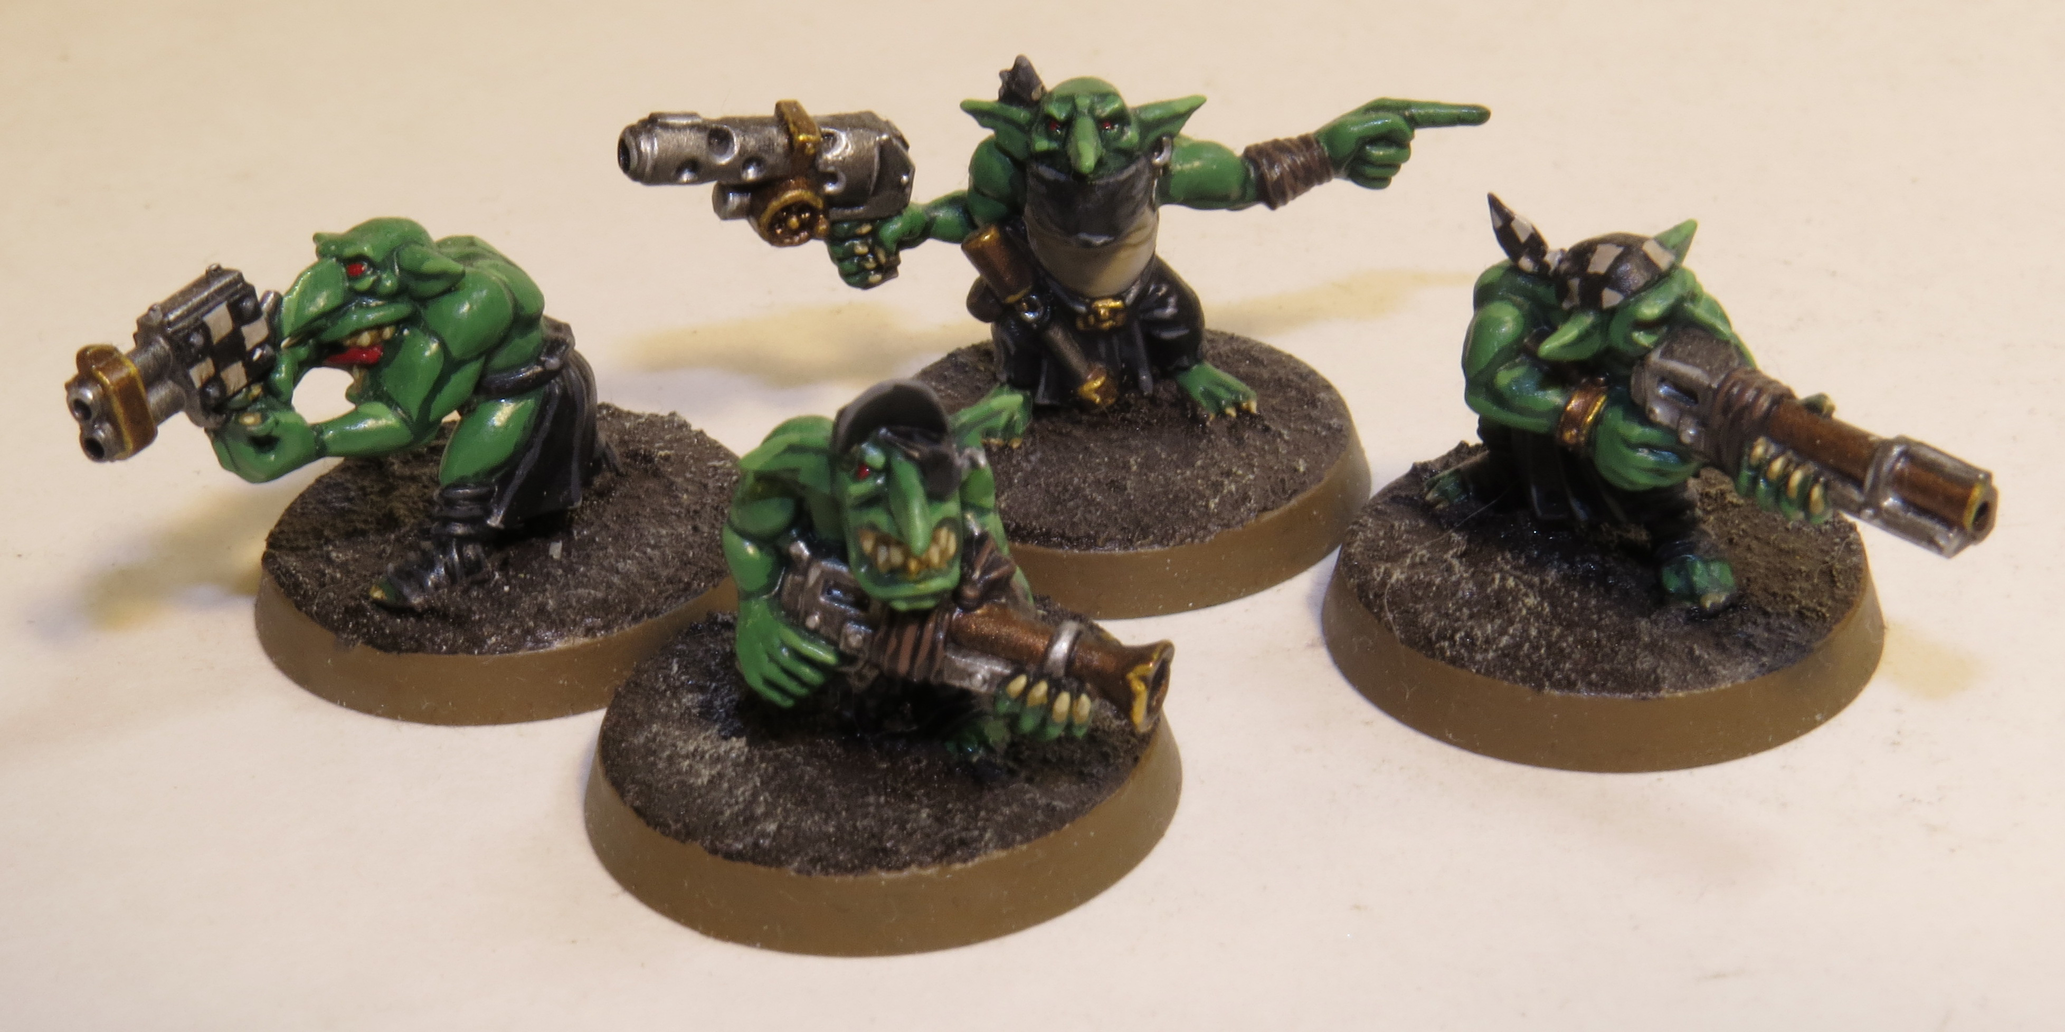
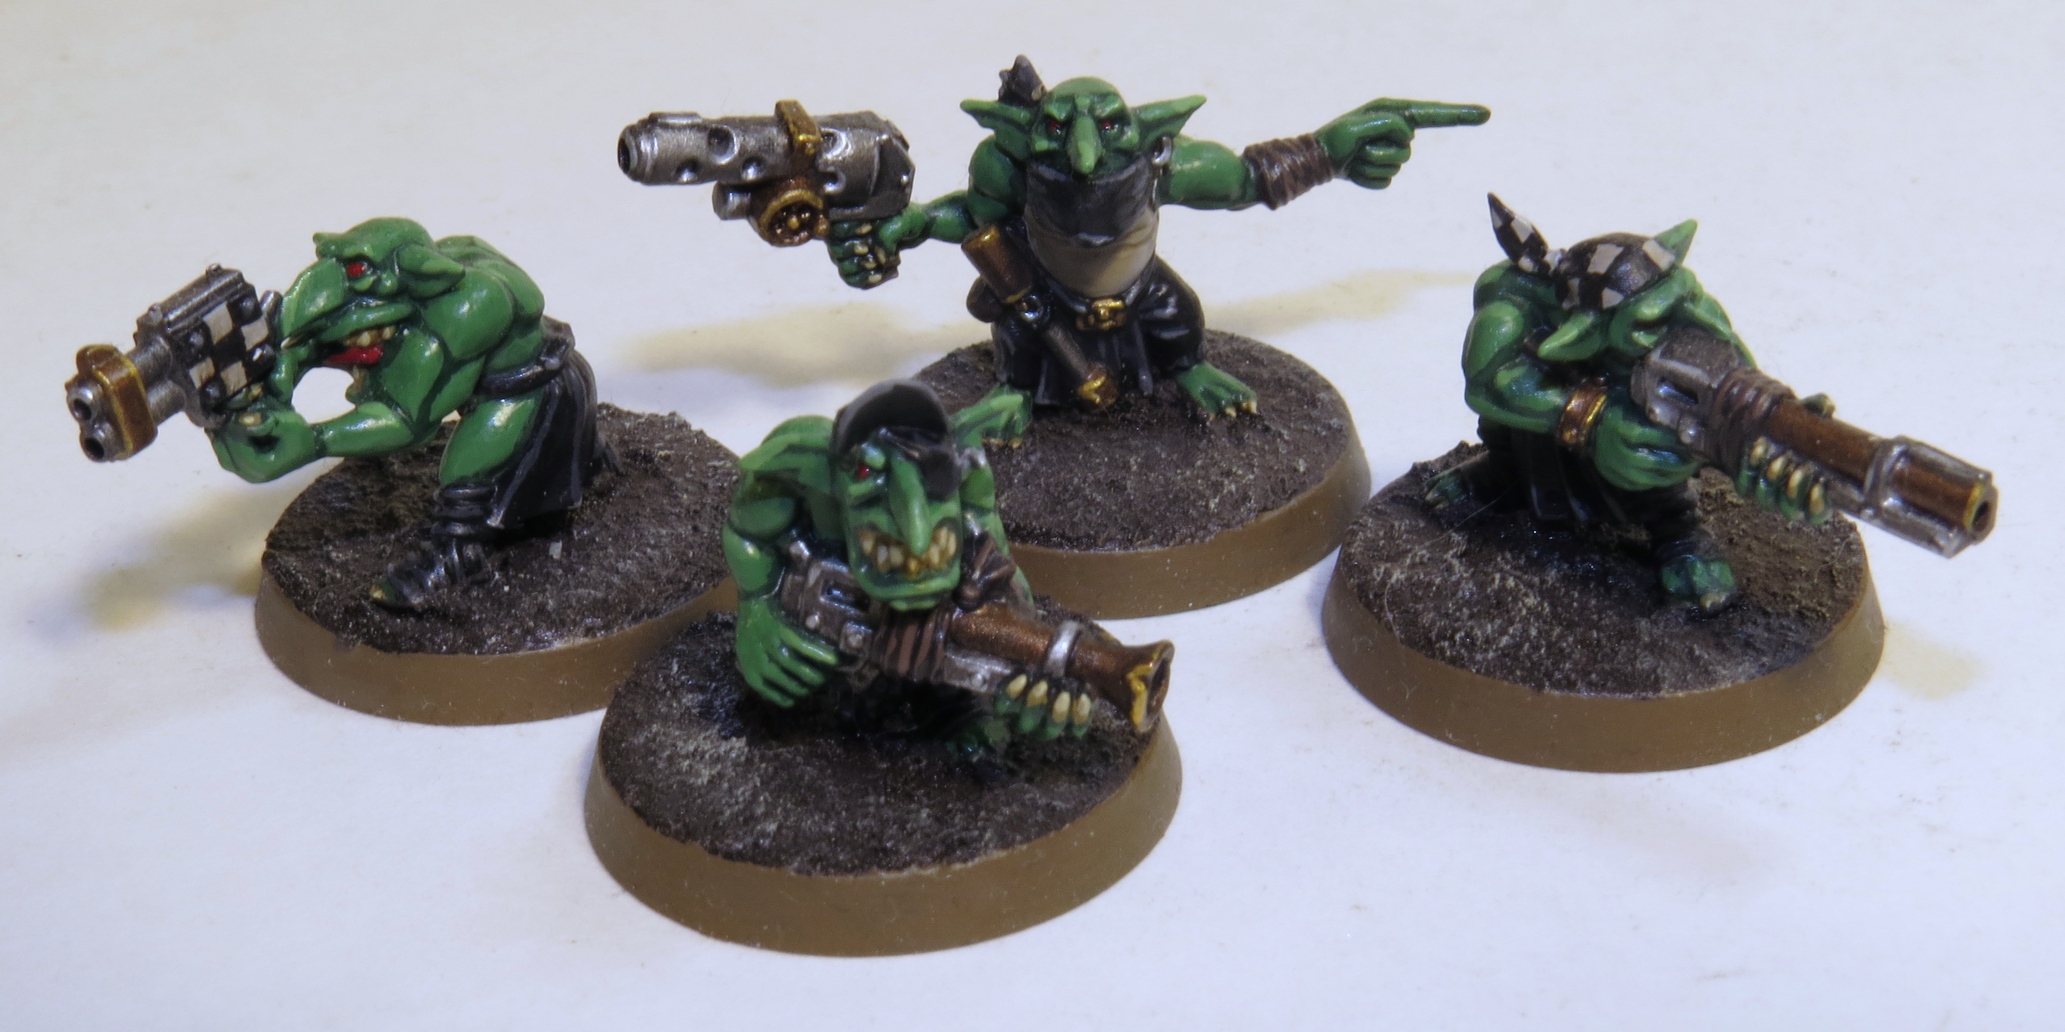
Added new models and colour-corrected all images

diff --git a/models/6_blood_throne/album.html b/models/6_blood_throne/album.html
@@ -1,0 +1,50 @@
+<!DOCTYPE html>
+<html>
+	<head>
+		<meta name="viewport" content="width=device-width, initial-scale=1">
+		<link rel="stylesheet" href="https://www.w3schools.com/w3css/4/w3pro.css">
+		<link rel="stylesheet" href="https://www.w3schools.com/lib/w3-colors-2017.css">
+		<link rel="stylesheet" href="https://cdnjs.cloudflare.com/ajax/libs/font-awesome/4.7.0/css/font-awesome.min.css">
+		<title>Blood Throne</title>
+		<style>
+			.back {
+				position: absolute;
+				top: 0px;
+				left: 0px;
+			}
+		</style>
+	</head>
+	<body class="w3-2017-shaded-spruce">
+		<div class="w3-container w3-center w3-border-bottom w3-margin-bottom w3-margin-left w3-margin-right">
+			<a href="../../index.html" class="w3-padding back">
+				<i class="fa fa-arrow-left w3-xxxlarge"></i>
+			</a>
+			<h1>Blood Throne</h1>
+			<p>The biggest model I've painted at this point, really happy with all the details</p>
+		</div>
+		<div class="w3-row-padding">
+			<div class="w3-third">
+				<img src="1_1.jpg" class="w3-margin-bottom w3-image w3-round">
+				<img src="1_2.jpg" class="w3-margin-bottom w3-image w3-round">
+
+			</div>
+			<div class="w3-third">
+				<img src="2_1.jpg" class="w3-margin-bottom w3-image w3-round">
+				<img src="2_2.jpg" class="w3-margin-bottom w3-image w3-round">
+
+			</div>
+			<div class="w3-third">
+				<img src="3_1.jpg" class="w3-margin-bottom w3-image w3-round">
+				<img src="3_2.jpg" class="w3-margin-bottom w3-image w3-round">
+				<img src="3_3.jpg" class="w3-margin-bottom w3-image w3-round">
+
+			</div>
+		</div>
+		<div class="w3-container w3-border-top w3-margin-top w3-margin-left w3-margin-right">
+			<h1>Paints Used:</h1>
+			<ul>
+				<li><b>Bloodletter Skin:</b><i> Mephistion Red, Carroburg Crimson all over, drybrush Evil Sunz Scarlet, Carroburg Crimson again on fins, light drybrush and highlight Wild Rider Red</i></li>				<li><b>Armour:</b><i> Khorne Red, Nuln Oil in recesses, edge highlight Evil Sunz Scarlet and Wild Rider Red</i></li>				<li><b>Armour Scratches:</b><i> Leadbelcher, Nuln Oil in scratches, highlight Stormhost Silver on one side</i></li>				<li><b>Rivets:</b><i> Stormhost Silver</i></li>				<li><b>Mechanical Pieces:</b><i> Leadbelcher, Nuln Oil all over, highlight and edge highlight Stormhost Silver</i></li>				<li><b>Flesh Pieces:</b><i> Rakarth Flesh, Reikland Fleshshade all over, Druchii Violet in some places to add variation, highlight with Flayed One Flesh and Pallid Wych Flesh</i></li>				<li><b>Skulls:</b><i> Zandri Dust, Seraphim Sepia all over, highlight Ushabti Bone, hightlight bright parts with Screaming Skull</i></li>				<li><b>Bronze:</b><i> Balthasar Gold, Reikland Fleshshade all over, highlight Sycorax Bronze, minimal edge highlight Stormhost Silver</i></li>				<li><b>Horns:</b><i> Abaddon Black, drybrush Eshin Grey and Dawnstone on tips, all over for leader horns, Arcdoat</i></li>				<li><b>Eyes:</b><i> Vallejo White, Flash Gitz Yellow</i></li>				<li><b>Tongue:</b><i> Screamer Pink, Druchii Violet all over, highlight Pink Horror, Ardcoat</i></li>				<li><b>Teeth:</b><i> Rakarth Flash, Reikland Fleshshade all over, highlight Pallid Wych Flesh</i></li>				<li><b>Sword Hilt:</b><i> Abaddon Grey, highlight Eshin Grey and Dawnstone</i></li>				<li><b>Sword Blade:</b><i> Abaddon Black, alternate wet Mephiston Red and Flash Gitz Yellow on edge, Ardcoat all over</i></li>				<li><b>Sword Tip:</b><i> drybrush Mephiston Red and Flash Gitz Yellow, edge highlight tip with Flash Gitz Yellow, single point of Vallejo White, Ardcoat</i></li>				<li><b>Base Rock:</b><i> Astrogranite, Nuln Oil all over, no highlight to look darker</i></li>				<li><b>Base Lava:</b><i> Mephiston Red, wet blend Mephiston Red and Flash Gitz yellow, very thing Vallejo White over brightest spots</i></li>
+			</ul>
+		</div>
+	</body>
+</html>

diff --git a/models/7_bloodcrushers/album.html b/models/7_bloodcrushers/album.html
@@ -1,0 +1,50 @@
+<!DOCTYPE html>
+<html>
+	<head>
+		<meta name="viewport" content="width=device-width, initial-scale=1">
+		<link rel="stylesheet" href="https://www.w3schools.com/w3css/4/w3pro.css">
+		<link rel="stylesheet" href="https://www.w3schools.com/lib/w3-colors-2017.css">
+		<link rel="stylesheet" href="https://cdnjs.cloudflare.com/ajax/libs/font-awesome/4.7.0/css/font-awesome.min.css">
+		<title>Bloodcrushers</title>
+		<style>
+			.back {
+				position: absolute;
+				top: 0px;
+				left: 0px;
+			}
+		</style>
+	</head>
+	<body class="w3-2017-shaded-spruce">
+		<div class="w3-container w3-center w3-border-bottom w3-margin-bottom w3-margin-left w3-margin-right">
+			<a href="../../index.html" class="w3-padding back">
+				<i class="fa fa-arrow-left w3-xxxlarge"></i>
+			</a>
+			<h1>Bloodcrushers</h1>
+			<p>Really fun models, lots of armour plates and rivets. Extremely proud of the glow coming from inside the lead bloodcrusher</p>
+		</div>
+		<div class="w3-row-padding">
+			<div class="w3-third">
+				<img src="1_1.jpg" class="w3-margin-bottom w3-image w3-round">
+				<img src="1_2.jpg" class="w3-margin-bottom w3-image w3-round">
+				<img src="1_3.jpg" class="w3-margin-bottom w3-image w3-round">
+
+			</div>
+			<div class="w3-third">
+				<img src="2_1.jpg" class="w3-margin-bottom w3-image w3-round">
+				<img src="2_2.jpg" class="w3-margin-bottom w3-image w3-round">
+
+			</div>
+			<div class="w3-third">
+				<img src="3_1.jpg" class="w3-margin-bottom w3-image w3-round">
+				<img src="3_2.jpg" class="w3-margin-bottom w3-image w3-round">
+
+			</div>
+		</div>
+		<div class="w3-container w3-border-top w3-margin-top w3-margin-left w3-margin-right">
+			<h1>Paints Used:</h1>
+			<ul>
+				<li><b>Bloodletter Skin:</b><i> Mephistion Red, Carroburg Crimson all over, drybrush Evil Sunz Scarlet, Carroburg Crimson again on fins, light drybrush and highlight Wild Rider Red</i></li>				<li><b>Armour:</b><i> Khorne Red, Nuln Oil in recesses, edge highlight Evil Sunz Scarlet and Wild Rider Red</i></li>				<li><b>Armour Scratches:</b><i> Leadbelcher, Nuln Oil in scratches, highlight Stormhost Silver on one side</i></li>				<li><b>Rivets:</b><i> Stormhost Silver</i></li>				<li><b>Mechanical Pieces/Steel:</b><i> Leadbelcher, Nuln Oil all over, highlight and edge highlight Stormhost Silver</i></li>				<li><b>Bronze:</b><i> Balthasar Gold, Reikland Fleshshade all over, highlight Sycorax Bronze, minimal edge highlight Stormhost Silver</i></li>				<li><b>Skulls:</b><i> Zandri Dust, Seraphim Sepia all over, highlight Ushabti Bone, hightlight bright parts with Screaming Skull</i></li>				<li><b>Horn (instrument):</b><i> Same as skulls, but with Carroburg Crimson in runes</i></li>				<li><b>Horns:</b><i> Abaddon Black, drybrush Eshin Grey and Dawnstone on tips, all over for leader horns, Arcdoat</i></li>				<li><b>Eyes:</b><i> Vallejo White, Flash Gitz Yellow</i></li>				<li><b>Tongue:</b><i> Screamer Pink, Druchii Violet all over, highlight Pink Horror, Ardcoat</i></li>				<li><b>Teeth:</b><i> Rakarth Flash, Reikland Fleshshade all over, highlight Pallid Wych Flesh</i></li>				<li><b>Sword Hilt:</b><i> Abaddon Grey, highlight Eshin Grey and Dawnstone</i></li>				<li><b>Sword Blade:</b><i> Abaddon Black, alternate wet Mephiston Red and Flash Gitz Yellow on edge, Ardcoat all over</i></li>				<li><b>Sword Tip:</b><i> drybrush Mephiston Red and Flash Gitz Yellow, edge highlight tip with Flash Gitz Yellow, single point of Vallejo White, Ardcoat</i></li>				<li><b>Base Rock:</b><i> Astrogranite, Nuln Oil all over, no highlight to look darker</i></li>				<li><b>Base Lava:</b><i> Mephiston Red, wet blend Mephiston Red and Flash Gitz yellow, very thing Vallejo White over brightest spots</i></li>
+			</ul>
+		</div>
+	</body>
+</html>

diff --git a/models/5_bloodletters/album.html b/models/5_bloodletters/album.html
@@ -20,7 +20,7 @@
 				<i class="fa fa-arrow-left w3-xxxlarge"></i>
 			</a>
 			<h1>Bloodletters</h1>
-			<p>My first attempt at wet-blending colours on the bases of these</p>
+			<p>Pretty proud of these, first attempt at wet-blending on the bases</p>
 		</div>
 		<div class="w3-row-padding">
 			<div class="w3-third">
@@ -38,6 +38,12 @@
 				<img src="3_1.jpg" class="w3-margin-bottom w3-image w3-round">
 
 			</div>
+		</div>
+		<div class="w3-container w3-border-top w3-margin-top w3-margin-left w3-margin-right">
+			<h1>Paints Used:</h1>
+			<ul>
+				<li><b>Skin:</b><i> Mephistion Red, Carroburg Crimson all over, drybrush Evil Sunz Scarlet, Carroburg Crimson again on fins, light drybrush and highlight Wild Rider Red</i></li>				<li><b>Bronze:</b><i> Balthasar Gold, Reikland Fleshshade all over, highlight Sycorax Bronze, minimal edge highlight Stormhost Silver</i></li>				<li><b>Horns:</b><i> Abaddon Black, drybrush Eshin Grey and Dawnstone on tips, all over for leader horns, Arcdoat</i></li>				<li><b>Eyes:</b><i> Vallejo White, Flash Gitz Yellow</i></li>				<li><b>Tongue:</b><i> Screamer Pink, Druchii Violet all over, highlight Pink Horror, Ardcoat</i></li>				<li><b>Teeth:</b><i> Rakarth Flash, Reikland Fleshshade all over, highlight Pallid Wych Flesh</i></li>				<li><b>Gore:</b><i> Khorne Red, Blood for the Blood God</i></li>				<li><b>Skulls:</b><i> Zandri Dust, Seraphim Sepia all over, highlight Ushabti Bone, hightlight bright parts with Screaming Skull</i></li>				<li><b>Sword Hilt:</b><i> Abaddon Grey, highlight Eshin Grey and Dawnstone</i></li>				<li><b>Sword Blade:</b><i> Abaddon Black, alternate wet Mephiston Red and Flash Gitz Yellow on edge, Ardcoat all over</i></li>				<li><b>Sword Tip:</b><i> drybrush Mephiston Red and Flash Gitz Yellow, edge highlight tip with Flash Gitz Yellow, single point of Vallejo White, Ardcoat</i></li>				<li><b>Base Rock:</b><i> Astrogranite, Nuln Oil all over, no highlight to look darker</i></li>				<li><b>Base Lava:</b><i> Mephiston Red, wet blend Mephiston Red and Flash Gitz yellow, very thing Vallejo White over brightest spots</i></li>
+			</ul>
 		</div>
 	</body>
 </html>

diff --git a/models/3_gretchin/album.html b/models/3_gretchin/album.html
@@ -20,7 +20,7 @@
 				<i class="fa fa-arrow-left w3-xxxlarge"></i>
 			</a>
 			<h1>Gretchin</h1>
-			<p>Painted these early so I could be sloppier and have something painted, but I ended up taking my time</p>
+			<p>I got these guys so I could be fast and sloppy to learn to paint better, turns out I only take my time</p>
 		</div>
 		<div class="w3-row-padding">
 			<div class="w3-third">
@@ -38,6 +38,12 @@
 				<img src="3_1.jpg" class="w3-margin-bottom w3-image w3-round">
 
 			</div>
+		</div>
+		<div class="w3-container w3-border-top w3-margin-top w3-margin-left w3-margin-right">
+			<h1>Paints Used:</h1>
+			<ul>
+				<li><b>Green:</b><i> Waaagh Flesh, Biel-tan Green all over, highlight Warboss Green and Skarsnik Green</i></li>				<li><b>Steel:</b><i> Leadbelcher, Nuln Oil all over, edge hightlight Stormhost Silver</i></li>				<li><b>Brass:</b><i> Runelord Brass, Nuln Oil all over, highlight Liberator Gold and Auric Armour Gold</i></li>				<li><b>Black:</b><i> Abaddon Black, edge highlight Eshin Grey and Dawnstone</i></li>				<li><b>Leather:</b><i> Dryad Bark, Agrax Earthshade all over, edge highlight Gorthor Brown</i></li>				<li><b>Teeth and Claws:</b><i> Zandri Dust, Seraphim Sepia all over, highlight Ushabti Bone</i></li>				<li><b>Eyes:</b><i> Mephiston Red, Ardcoat</i></li>				<li><b>Checkerboard Pattern:</b><i> Corax White and Abaddon Black, Agrax Earthshade all over, highlight white with Corax White</i></li>				<li><b>Base:</b><i> Stirland Mud, Agrax Earthshade, drybrush Ushabti Bone, Steel Legion Drab rim</i></li>				<li><b>Squig Skin:</b><i> Mephiston Red, Carroburg Crimson all over, second layer of Carroburg Crimson on hair, highlight Evil Sunz Scarlet and Wild Rider Red</i></li>				<li><b>Squig Tongue:</b><i> Screamer Pink, Druchii Violet all over, Ardcoat</i></li>				<li><b>Squig Eyes/Claws:</b><i> Abaddon Black, Ardcoat</i></li>				<li><b>Teeth and Claws:</b><i> Zandri Dust, Seraphim Sepia all over, highlight Ushabti Bone and Screaming Skull</i></li>
+			</ul>
 		</div>
 	</body>
 </html>

diff --git a/index.html b/index.html
@@ -22,6 +22,36 @@
 		<div class="w3-row-padding">
 			<div class="w3-quarter">
 				<div class="w3-card w3-hover-shadow">
+					<a href="models/8_khorne_start_collecting/album.html">
+						<img src="models/8_khorne_start_collecting/cover.jpg" class="w3-image w3-round" alt="Khorne Start Collecting">
+						<div class="w3-container w3-center">
+							<p>Khorne Start Collecting</p>
+						</div>
+					</a>
+				</div>
+			</div>
+			<div class="w3-quarter">
+				<div class="w3-card w3-hover-shadow">
+					<a href="models/7_bloodcrushers/album.html">
+						<img src="models/7_bloodcrushers/cover.jpg" class="w3-image w3-round" alt="Bloodcrushers">
+						<div class="w3-container w3-center">
+							<p>Bloodcrushers</p>
+						</div>
+					</a>
+				</div>
+			</div>
+			<div class="w3-quarter">
+				<div class="w3-card w3-hover-shadow">
+					<a href="models/6_blood_throne/album.html">
+						<img src="models/6_blood_throne/cover.jpg" class="w3-image w3-round" alt="Blood Throne">
+						<div class="w3-container w3-center">
+							<p>Blood Throne</p>
+						</div>
+					</a>
+				</div>
+			</div>
+			<div class="w3-quarter">
+				<div class="w3-card w3-hover-shadow">
 					<a href="models/5_bloodletters/album.html">
 						<img src="models/5_bloodletters/cover.jpg" class="w3-image w3-round" alt="Bloodletters">
 						<div class="w3-container w3-center">
@@ -30,6 +60,7 @@
 					</a>
 				</div>
 			</div>
+		</div>		<div class="w3-row-padding">
 			<div class="w3-quarter">
 				<div class="w3-card w3-hover-shadow">
 					<a href="models/4_ork_boyz/album.html">
@@ -60,7 +91,6 @@
 					</a>
 				</div>
 			</div>
-		</div>		<div class="w3-row-padding">
 			<div class="w3-quarter">
 				<div class="w3-card w3-hover-shadow">
 					<a href="models/1_sample_marine/album.html">

diff --git a/models/4_ork_boyz/album.html b/models/4_ork_boyz/album.html
@@ -20,7 +20,7 @@
 				<i class="fa fa-arrow-left w3-xxxlarge"></i>
 			</a>
 			<h1>Ork Boyz</h1>
-			<p>A squad of Ork Boyz with a rokkit launcher and lots of metal details</p>
+			<p>A squad of Ork Boyz. Again, bought them to be sloppy and learn to paint, but ended up trying hard</p>
 		</div>
 		<div class="w3-row-padding">
 			<div class="w3-third">
@@ -38,6 +38,12 @@
 				<img src="3_2.jpg" class="w3-margin-bottom w3-image w3-round">
 
 			</div>
+		</div>
+		<div class="w3-container w3-border-top w3-margin-top w3-margin-left w3-margin-right">
+			<h1>Paints Used:</h1>
+			<ul>
+				<li><b>Green:</b><i> Waaagh Flesh, Biel-tan Green all over, highlight Warboss Green and Skarsnik Green</i></li>				<li><b>Steel:</b><i> Leadbelcher, Nuln Oil all over, edge hightlight Stormhost Silver</i></li>				<li><b>Brass:</b><i> Runelord Brass, Nuln Oil all over, highlight Liberator Gold and Auric Armour Gold</i></li>				<li><b>Black:</b><i> Abaddon Black, edge highlight Eshin Grey and Dawnstone</i></li>				<li><b>Leather:</b><i> Dryad Bark, Agrax Earthshade all over, edge highlight Gorthor Brown</i></li>				<li><b>Bone/Teeth/Claws:</b><i> Zandri Dust, Seraphim Sepia all over, highlight Ushabti Bone and Screaming Skull</i></li>				<li><b>Lenses:</b><i> Corax White, Coelia Greenshade/Carroburg Crimson, second layer of shade along the bottom, dot of Corax White in the top, Arcdoat</i></li>				<li><b>Eyes:</b><i> Mephiston Red, Ardcoat</i></li>				<li><b>Base:</b><i> Stirland Mud, Agrax Earthshade, drybrush Ushabti Bone, Steel Legion Drab rim</i></li>
+			</ul>
 		</div>
 	</body>
 </html>

diff --git a/models/2_ork_boy_contest/album.html b/models/2_ork_boy_contest/album.html
@@ -20,7 +20,7 @@
 				<i class="fa fa-arrow-left w3-xxxlarge"></i>
 			</a>
 			<h1>Ork Boy Contest Entry</h1>
-			<p>A single Ork Boy entered into a painting contest. I used the contest to force myself to finish painting a model</p>
+			<p>I was still nervous about painting, so I entered a local contest to force myself to finish a model</p>
 		</div>
 		<div class="w3-row-padding">
 			<div class="w3-third">
@@ -35,6 +35,12 @@
 				<img src="3_1.jpg" class="w3-margin-bottom w3-image w3-round">
 
 			</div>
+		</div>
+		<div class="w3-container w3-border-top w3-margin-top w3-margin-left w3-margin-right">
+			<h1>Paints Used:</h1>
+			<ul>
+				<li><b>Green:</b><i> Waaagh Flesh, Biel-tan Green all over, highlight Warboss Green and Skarsnik Green</i></li>				<li><b>Steel:</b><i> Leadbelcher, Nuln Oil all over, edge hightlight Stormhost Silver</i></li>				<li><b>Brass:</b><i> Runelord Brass, Nuln Oil all over, highlight Liberator Gold and Auric Armour Gold</i></li>				<li><b>Black:</b><i> Abaddon Black, edge highlight Eshin Grey and Dawnstone</i></li>				<li><b>Leather:</b><i> Dryad Bark, Agrax Earthshade all over, edge highlight Gorthor Brown</i></li>				<li><b>Teeth and Claws:</b><i> Zandri Dust, Seraphim Sepia all over, highlight Ushabti Bone</i></li>				<li><b>Eyes:</b><i> Mephiston Red, Ardcoat</i></li>				<li><b>Hair:</b><i> Corax White and Abaddon Black, Agrax Earthshade all over, highlight white with Corax White</i></li>				<li><b>Base:</b><i> Stirland Mud, Agrax Earthshade, drybrush Ushabti Bone, Steel Legion Drab rim</i></li>
+			</ul>
 		</div>
 	</body>
 </html>

diff --git a/models/8_khorne_start_collecting/album.html b/models/8_khorne_start_collecting/album.html
@@ -1,0 +1,46 @@
+<!DOCTYPE html>
+<html>
+	<head>
+		<meta name="viewport" content="width=device-width, initial-scale=1">
+		<link rel="stylesheet" href="https://www.w3schools.com/w3css/4/w3pro.css">
+		<link rel="stylesheet" href="https://www.w3schools.com/lib/w3-colors-2017.css">
+		<link rel="stylesheet" href="https://cdnjs.cloudflare.com/ajax/libs/font-awesome/4.7.0/css/font-awesome.min.css">
+		<title>Khorne Start Collecting</title>
+		<style>
+			.back {
+				position: absolute;
+				top: 0px;
+				left: 0px;
+			}
+		</style>
+	</head>
+	<body class="w3-2017-shaded-spruce">
+		<div class="w3-container w3-center w3-border-bottom w3-margin-bottom w3-margin-left w3-margin-right">
+			<a href="../../index.html" class="w3-padding back">
+				<i class="fa fa-arrow-left w3-xxxlarge"></i>
+			</a>
+			<h1>Khorne Start Collecting</h1>
+			<p>The first big box I finished, and I think they look really good all together. Really proud of the bases too</p>
+		</div>
+		<div class="w3-row-padding">
+			<div class="w3-third">
+				<img src="1_1.jpg" class="w3-margin-bottom w3-image w3-round">
+
+			</div>
+			<div class="w3-third">
+				<img src="2_1.jpg" class="w3-margin-bottom w3-image w3-round">
+
+			</div>
+			<div class="w3-third">
+				<img src="3_1.jpg" class="w3-margin-bottom w3-image w3-round">
+
+			</div>
+		</div>
+		<div class="w3-container w3-border-top w3-margin-top w3-margin-left w3-margin-right">
+			<h1>Paints Used:</h1>
+			<ul>
+				<li>See the individual models for the colours used</li>
+			</ul>
+		</div>
+	</body>
+</html>

diff --git a/models/1_sample_marine/album.html b/models/1_sample_marine/album.html
@@ -20,7 +20,7 @@
 				<i class="fa fa-arrow-left w3-xxxlarge"></i>
 			</a>
 			<h1>Free Sample Space Marine</h1>
-			<p>A single marine I received for free buying hobby supplies. I painted it first as practice</p>
+			<p>A free sample that I painted first as practice</p>
 		</div>
 		<div class="w3-row-padding">
 			<div class="w3-third">
@@ -35,6 +35,12 @@
 				<img src="3_1.jpg" class="w3-margin-bottom w3-image w3-round">
 
 			</div>
+		</div>
+		<div class="w3-container w3-border-top w3-margin-top w3-margin-left w3-margin-right">
+			<h1>Paints Used:</h1>
+			<ul>
+				<li><b>Blue:</b><i> Macragge Blue, Nuln Oil all over, edge highlight Calgar Blue and Fenrisian Grey</i></li>				<li><b>Steel:</b><i> Leadbelcher, Nuln Oil all over, edge hightlight Stormhost Silver</i></li>				<li><b>Gold:</b><i> Retributor Armour, Reikland Fleshshade all over, highlight Auric Armour Gold, edge highlight Liberator Gold</i></li>				<li><b>Black:</b><i> Abaddon Black, edge highlight Eshin Grey and Dawnstone</i></li>				<li><b>Purity Seal Wax:</b><i> Mephiston Red, Agrax Earthshade all over</i></li>				<li><b>Purity Seal Paper:</b><i> Rakarth Flesh, Agrax Earthshade all over</i></li>				<li><b>Eyes:</b><i> Mephiston Red</i></li>				<li><b>Base:</b><i> Dryad Bark dirt, Celestra Grey bones, Mephiston Red banner, Agrax Earthshade all over</i></li>
+			</ul>
 		</div>
 	</body>
 </html>

diff --git a/generator/generate_website.py b/generator/generate_website.py
@@ -27,6 +27,16 @@ for album_num in reversed(sorted(list(albums.keys()))):
     album_html = album_html.replace('$$title$$', album['content']['title'])
     album_html = album_html.replace('$$description$$', album['content']['description'])
 
+    colour_html = ''
+    colour_split = []
+    for colour in album['content']['colours']:
+        colour_split = colour.split(":", 1)
+        if len(colour_split) > 1:
+            colour_html += '\t\t\t\t<li><b>' + colour_split[0] + ':</b><i>' + colour_split[1] + '</i></li>'
+        else:
+            colour_html += '\t\t\t\t<li>' + colour_split[0] + '</li>'
+    album_html = album_html.replace('$$colours$$', colour_html)
+
     if album_i%4 == 0:
         index_image_html += '\t\t<div class="w3-row-padding">\n'
     index_image_html += ('\t\t\t<div class="w3-quarter">\n'
